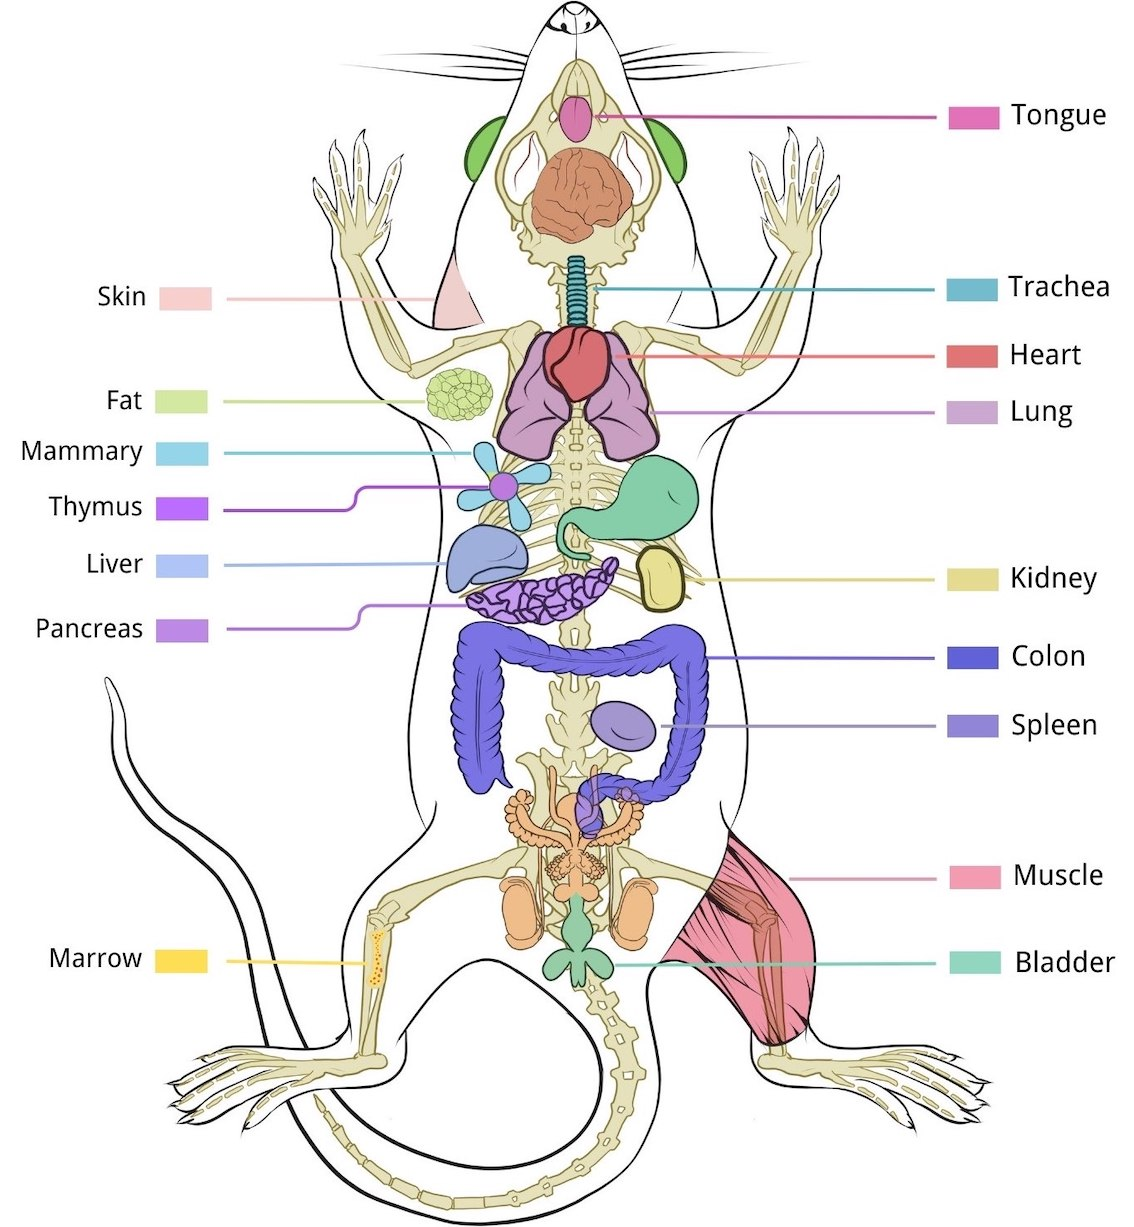
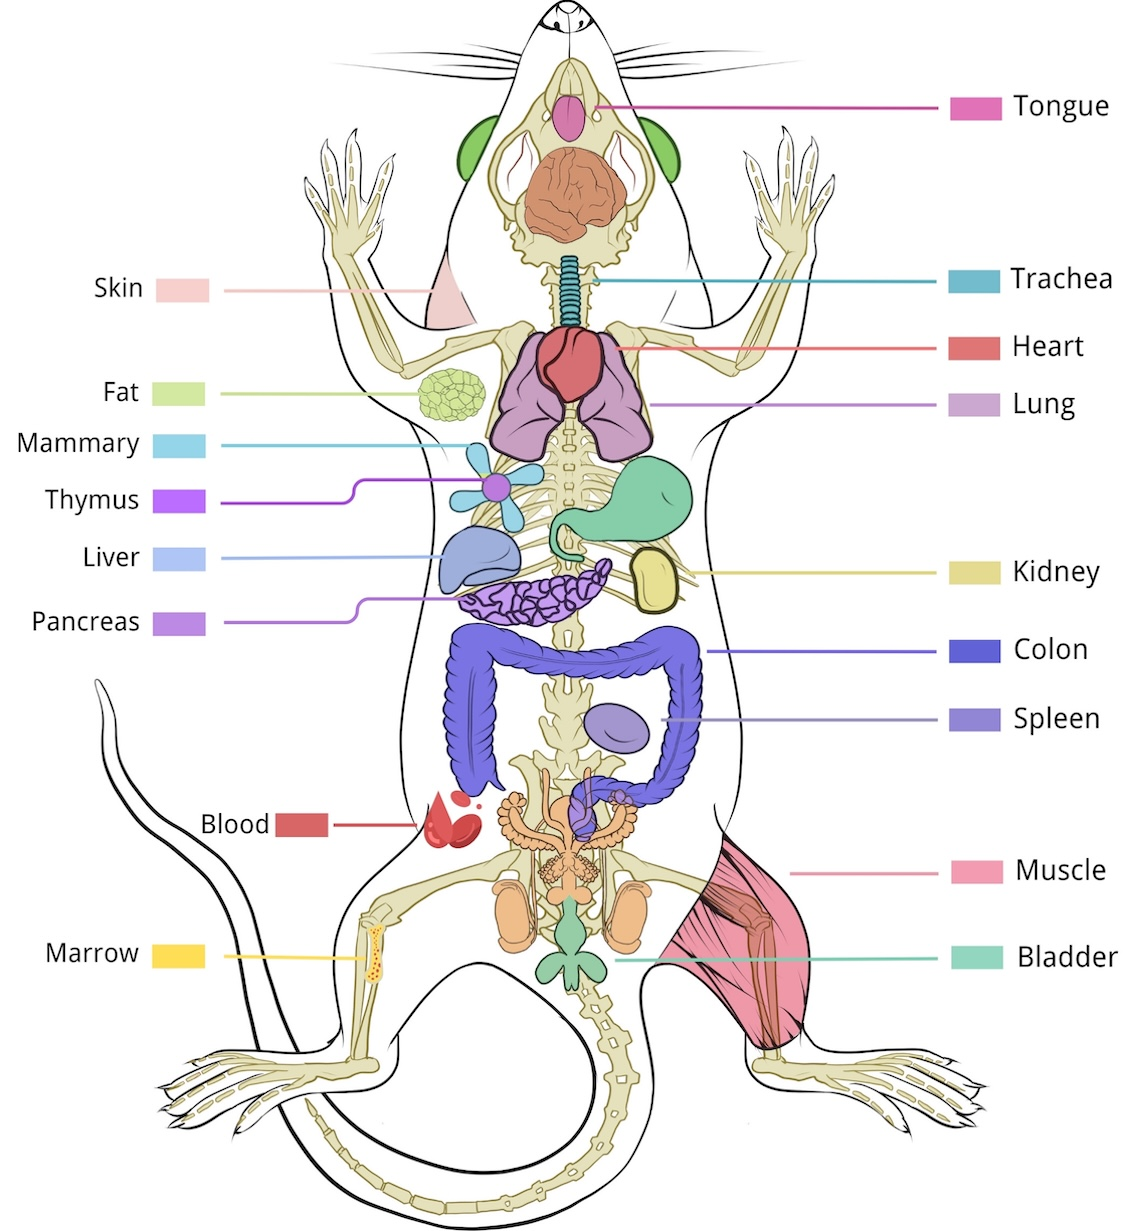
Add blood organ to mouse profile, adjust coordinate of organs to fit new picture

Changed region(s): [[0.0, 0.0, 0.9877, 1.0]]

diff --git a/src/utils/organismMetadata.js b/src/utils/organismMetadata.js
@@ -268,23 +268,25 @@ const organismMetadata = {
     paperHyperlink: "https://www.nature.com/articles/s41586-020-2496-1",
     category: "Animal",
     organs: {
-      "skin": {coords: "454,249,436,301,434,328,456,328,483,321,466,287"},
-      "fat": {coords: "456,369,442,372,429,380,428,393,428,402,431,413,439,416,451,419,465,418,482,414,492,398,488,378,473,369"},
+      "skin": {coords: "447,246,431,289,426,311,426,328,445,329,476,322,459,290,450,269"},
+      "blood": {coords: "438,787,429,807,422,824,426,836,433,843,442,845,449,840,459,844,468,840,477,832,481,821,477,812,468,810,459,814,452,820"},
+      "fat": {coords: "425,375,418,389,419,399,421,410,427,416,439,420,447,420,458,419,468,416,477,410,483,402,484,391,479,378,467,372,453,369,440,369"},
       "mammary": {coords: "490,478,473,457,477,441,495,447,498,473"},
       "thymus": {coords: "489,484,495,475,506,471,517,479,517,491,511,499,501,501,491,496"},
-      "liver": {coords: "445,577,448,555,455,537,476,524,505,528,525,543,527,571,507,579,470,583,452,593"},
+      "liver": {coords: "443,591,438,573,441,554,446,542,458,529,469,524,480,525,497,529,510,534,517,544,520,556,519,567,515,572,482,581,463,582,454,589"},
       "pancreas": {coords: "465,597,495,584,517,580,547,579,567,574,592,571,615,555,618,572,600,597,579,611,559,622,530,623,500,623,473,612"},
-      "marrow": {coords: "368,911,364,958,358,1054,375,1053,378,1015,391,926"},
+      "marrow": {coords: "360,913,350,1047,369,1048,382,965,382,925"},
       "tongue": {coords: "562,100,575,95,586,101,593,118,589,134,577,143,562,133,558,117"},
-      "trachea": {coords: "569,256,585,256,587,324,566,324"},
+      "trachea": {coords: "558,257,579,327", shape: "rect"},
       "heart": {coords: "578,326,548,334,542,357,547,382,561,390,575,402,601,388,609,369,605,335"},
       "lung": {coords: "606,329,625,345,636,373,650,406,661,442,638,456,609,462,600,435,584,413,591,398,611,380"},
       "kidney": {coords: "636,564,646,548,674,550,683,572,680,603,661,613,644,607"},
-      "colon": {coords: "500,776,500,726,498,653,537,669,578,673,625,676,667,667,677,699,667,750,655,779,652,802,681,788,696,763,703,728,708,687,705,656,697,630,673,623,644,640,592,652,547,645,505,626,479,623,458,633,453,662,452,696,453,729,459,760,472,790,488,792"},
+      "colon": {coords: "488,778,482,787,476,790,466,789,457,775,451,756,445,728,444,699,448,685,447,668,449,651,454,631,464,623,480,620,497,624,507,628,521,635,539,644,557,648,582,649,604,644,616,644,632,639,657,626,673,624,688,632,697,644,697,654,699,670,698,694,698,710,694,729,692,747,687,765,680,779,670,784,661,794,654,797,639,801,632,797,624,789,626,779,652,778,656,760,661,737,665,724,667,712,669,695,668,683,665,670,660,661,649,666,640,672,625,673,616,672,605,674,599,673,590,675,583,672,574,673,563,670,550,670,541,669,527,668,521,664,511,662,503,661,494,656,494,673,495,689,493,700,496,711,494,720,492,731,493,739,493,750,496,766,495,773"},
       "spleen": {coords: "592,710,615,701,640,709,655,725,654,744,633,752,606,746,593,731"},
-      "muscle": {coords: "732,836,776,874,808,916,815,960,809,1027,791,1038,769,1047,752,1032,739,1010,708,977,684,960,659,963,702,903"},
+      "muscle": {coords: "722,829,754,862,791,898,806,947,805,985,799,1017,798,1027,779,1041,755,1043,705,979,679,960,654,959,694,900,716,862"},
       "bladder": {coords: "569,913,562,923,562,936,570,949,553,952,542,967,547,981,563,973,570,965,574,986,586,985,586,962,594,972,604,979,611,976,614,967,605,954,585,947,592,936,590,922,582,910,583,899,569,899"},
       "skin-label": {coords: "221,318,86,277", shape: "rect"},
+      "blood-label": {coords: "195,794,333,841", shape: "rect"},
       "fat-label": {coords: "93,381,219,419", shape: "rect"},
       "mammary-label": {coords: "14,430,220,474", shape: "rect"},
       "thymus-label": {coords: "37,488,218,528", shape: "rect"},
